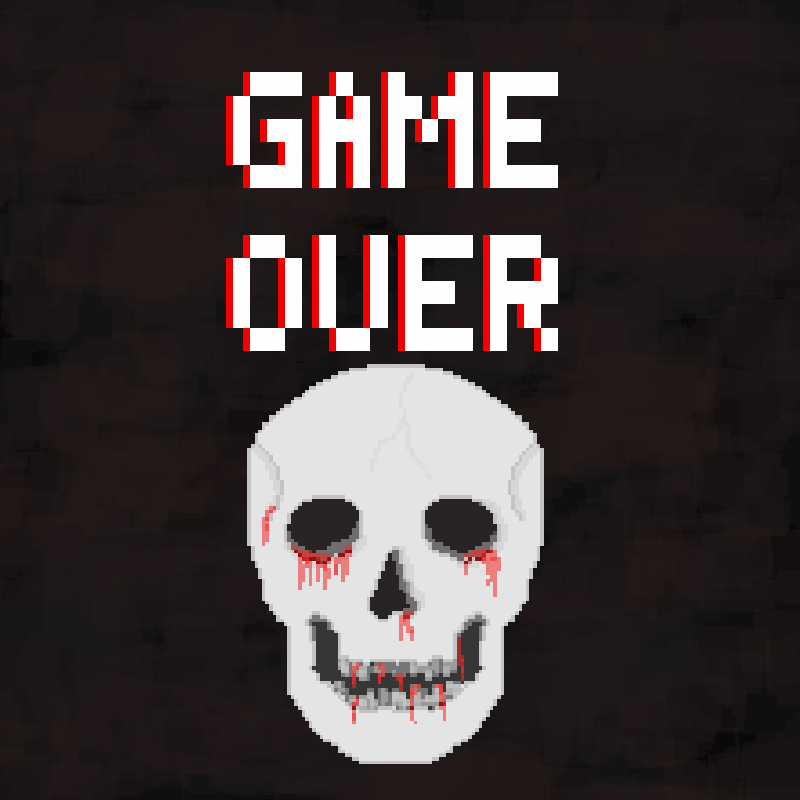
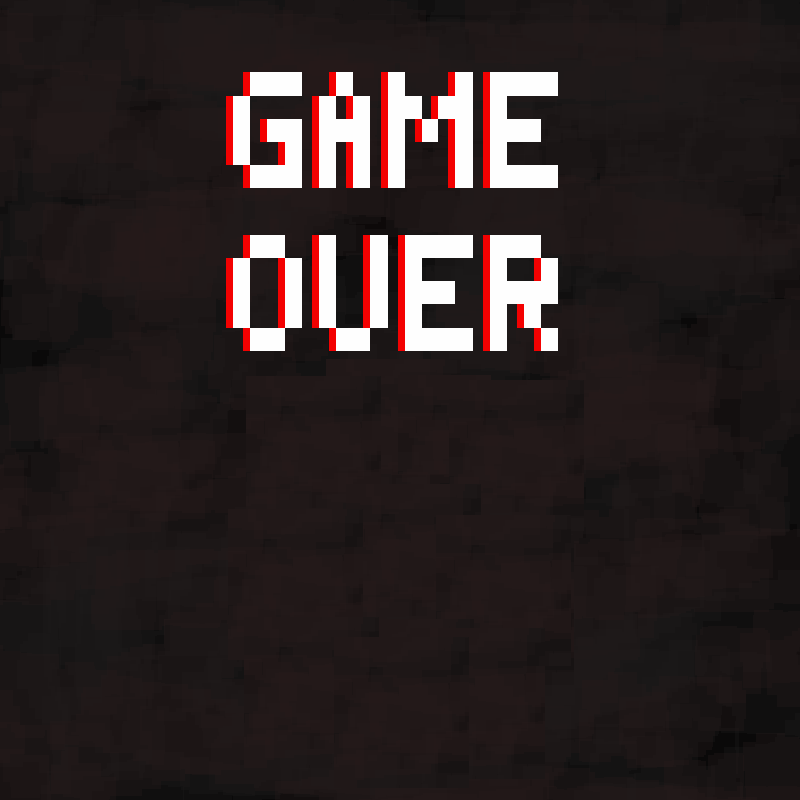
[+] beercule game over

Changed region(s): [[0.2812, 0.4375, 0.6875, 0.9688]]

diff --git a/src/SFML/Sfml.cpp b/src/SFML/Sfml.cpp
@@ -56,4 +56,7 @@ SFML::SFML() {
     _sprite["close2"].setScale(0.5,0.5);
     _sprite["close2"].setPosition(625, 450);
     _sprite["close2"].setTextureRect(close_rect);
+    addsprite("beercules_over", "./assets/Beercules.png");
+    _sprite["beercules_over"].setScale(0.45, 0.45);
+    _sprite["beercules_over"].setPosition(175, 325);
 }

diff --git a/src/game_over.cpp b/src/game_over.cpp
@@ -53,6 +53,7 @@ int game_over_loop(SFML sfml)
             sfml.window->draw(sfml._sprite["close2"]);
         else
             sfml.window->draw(sfml._sprite["close"]);
+        sfml.window->draw(sfml._sprite["beercules_over"]);
         sfml.window->display();
     }
     return 1;
